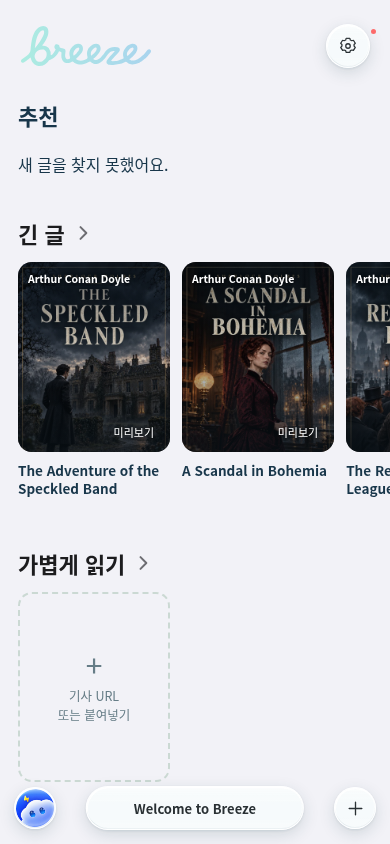
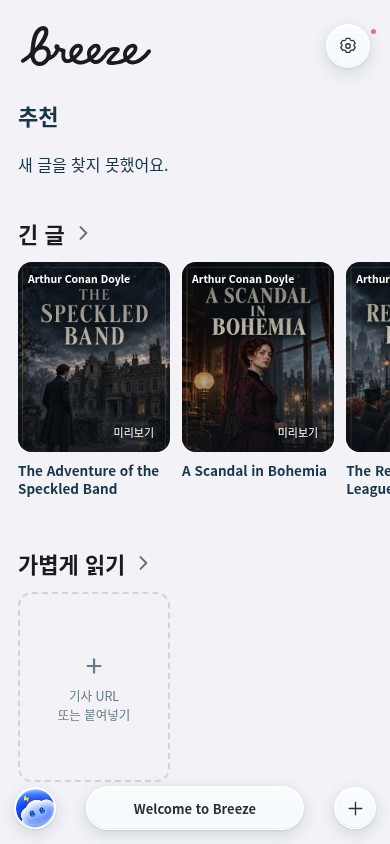
Preview white palettes and use monochrome Home brand; fix detached QA release

Changed region(s): [[0.0615, 0.0308, 0.3692, 0.0924]]

diff --git a/styles/home-shell.css b/styles/home-shell.css
@@ -6,7 +6,7 @@ body:has(:is(#v-home,#v-casuals,#v-longform).on) #topbar{position:relative;trans
 .breeze-wordmark{display:block;width:120px;aspect-ratio:841/258;background:url('../assets/brand/wordmark-light.svg') center/contain no-repeat;}
 body.dark .breeze-wordmark{background-image:url('../assets/brand/wordmark-dark.svg');}
 body:has(:is(#v-home,#v-casuals,#v-longform).on) #logo{gap:10px;}
-body:has(:is(#v-home,#v-casuals,#v-longform).on) #logo .breeze-wordmark{width:132px;}
+body:has(:is(#v-home,#v-casuals,#v-longform).on) #logo .breeze-wordmark{width:132px;background:var(--settings-ink);-webkit-mask:url('../assets/brand/wordmark-mask.svg') center/contain no-repeat;mask:url('../assets/brand/wordmark-mask.svg') center/contain no-repeat;}
 body:has(:is(#v-home,#v-casuals,#v-longform).on) #nav-settings{margin-left:auto;flex:none;width:44px;height:44px;}
 body:has(:is(#v-home,#v-casuals,#v-longform).on) #nav-settings svg{width:18px;height:18px;fill:none;stroke:currentColor;stroke-width:1.7;stroke-linecap:round;stroke-linejoin:round;}
 body:has(:is(#v-home,#v-casuals,#v-longform).on) #nav-settings span{position:absolute;width:1px;height:1px;overflow:hidden;clip-path:inset(50%);white-space:nowrap;}

diff --git a/index.html b/index.html
@@ -60,7 +60,7 @@
   <link rel="stylesheet" href="styles/responsive.css?v=8feb0509">
   <link rel="stylesheet" href="styles/wordbook.css?v=1736245b">
   <link rel="stylesheet" href="styles/home-font.css?v=d817d87e">
-  <link rel="stylesheet" href="styles/home-shell.css?v=b36cbbdb">
+  <link rel="stylesheet" href="styles/home-shell.css?v=5fd466f5">
   <link rel="stylesheet" href="styles/onboarding.css?v=7cd86bec">
 
   <!-- PDF·EPUB 라이브러리(418KB)는 파일을 처음 열 때 받습니다. 기사만 읽는

diff --git a/sw.js b/sw.js
@@ -33,7 +33,7 @@
 /* tools/stamp-version.mjs 가 찍습니다 — 손으로 고치지 마세요.
    값은 "판 번호를 찍은 index.html 의 해시" 입니다. index.html 은 모든 파일의
    해시를 담고 있으니, 이 한 줄이 "무엇이든 바뀌었다" 를 정확히 가리킵니다. */
-const VERSION = 'd808f26f';
+const VERSION = '02a55943';
 const CACHE = `breeze-${VERSION}`;
 
 /* 담을 목록은 index.html 을 읽어서 그때그때 만듭니다. 손으로 적어 두면 파일을

diff --git a/tools/trace-breeze-brand.py b/tools/trace-breeze-brand.py
@@ -62,7 +62,7 @@ def outline(bounds):
 
 def svg(width,height,path,dark=False,icon=False):
     # 07:56 feedback: WHITE uses exactly Dark01 ink, without darkening it.
-    # Letterform remains provisional while the new readable-r is reviewed.
+    # 08:15 feedback confirms the original approved cursive r contour.
     colors=('#acece1','#a9d4ee')
     if icon:
         scale=820/max(width,height); x=(1024-width*scale)/2; y=(1024-height*scale)/2
@@ -77,3 +77,5 @@ if __name__=='__main__':
     monogram=outline((52,1110,315,1340))
     for name,data in [('wordmark-light.svg',svg(*word)),('wordmark-dark.svg',svg(*word,dark=True)),('monogram.svg',svg(*monogram,icon=True))]:
         (ROOT/'assets/brand'/name).write_text(data)
+    width,height,path=word
+    (ROOT/'assets/brand/wordmark-mask.svg').write_text(f'<svg xmlns="http://www.w3.org/2000/svg" viewBox="0 0 {width} {height}"><path d="{path}" fill="black" fill-rule="evenodd"/></svg>\n')

diff --git a/docs/decisions/014-breeze-wordmark.md b/docs/decisions/014-breeze-wordmark.md
@@ -3,9 +3,9 @@
 The user selected Dark01 and authorized a white-mode version, onboarding,
 splash and restrained Home branding, with screenshots before approval. This
 draft is stacked on PR #122 and changes no auth, Reader lookup or release policy.
-The 07:56 feedback requests identical Dark01 ink on WHITE and a more readable,
-less hooked `r`. The current contour is explicitly **provisional** pending the
-design worker's comparison and user review; this draft does not finalize it.
+The user confirmed the original cursive `r` at 08:15. Its contour is retained;
+the plain-r alternative is not implemented. WHITE palette A/B still awaits
+selection after the 08:06 feedback about the pale appearance.
 
 The approved Library board is `libfile_709561bacc108191b6ec01dddc4318f9`
 (version 0, backing `file_000000006c9881f9bf2b7604c4c0cb57`). Actual pixels
@@ -18,8 +18,13 @@ themes share exactly the same outline and aspect ratio. Both use the exact
 Dark01 gradient #acece1 → #a9d4ee; WHITE is not darkened. These are decorative
 brand ink, not general control/selection tokens.
 
-The full wordmark replaces the mascot on welcome and completion, and the Home
-header. The ordinary content word `Breeze` stays selectable Reader text. Its
+The full wordmark replaces the mascot on welcome and completion. Following
+08:08 user feedback, the Home header uses the identical contour as a mask filled
+with the existing neutral `--settings-ink` token (#1C1C1E / #F2F2F7), with no
+gradient. Colored artwork remains on onboarding and splash. The 08:06 feedback
+rejects the pale WHITE effect; two preview-only white palette candidates are
+recorded separately and await user selection. Dark ink is unchanged.
+The ordinary content word `Breeze` stays selectable Reader text. Its
 lesson, actual mini pill, expansion, translation and explanation remain shared.
 Home content and navigation, including the existing Memory illustration, remain
 intact. The `br` mark replaces web/PWA/iOS app icon assets.

diff --git a/docs/qa/white-palette-variants/README.md b/docs/qa/white-palette-variants/README.md
@@ -1,0 +1,30 @@
+# WHITE palette comparison — selection pending
+
+08:15 user decision confirms the original cursive r; all three variants have
+the exact same source contour. Dark onboarding/splash ink is unchanged.
+Home now uses neutral text-token monochrome and is outside this color choice.
+
+| Variant | Gradient stops | Endpoint contrast on #FBFCFC |
+|---|---|---|
+| Current baseline | 0% #acece1, 100% #a9d4ee | 1.29 / 1.53 |
+| A | 0% #75b9bd, 80% / 100% #79aac8 | 2.17 / 2.43 |
+| B | 0% #63acb5, 80% / 100% #699bbc | 2.52 / 2.91 |
+
+A lowers brightness moderately; B is a little stronger and bluer. Both preserve
+the sea-glass family. These are decorative brand marks, not instruction text.
+The Korean copy and controls keep their existing readable neutral ink.
+
+`white-onboarding-comparison.png` places three independently captured production
+onboarding pages at their original 390×844 dimensions, with labels outside the
+screens. The UI is real; only the vector gradient asset is substituted for preview.
+No font, nonuniform scaling or letterform change is used. The iframe experiment
+had a storage initialization error and was excluded; Library board version 1 is
+the corrected independent-capture board, replacing version 0.
+
+The individual colored Home candidate files are historical palette comparisons
+from before the monochrome Home direction, not the current Home. Latest actual
+monochrome screenshots and native IDs are in `../breeze-wordmark/`.
+
+Preview vectors live under `docs/brand/white-palette-variants/`, outside the app
+bundle. No A/B palette is applied to production onboarding or native artwork
+until selection. Native Library references are in `library-images.json`.

diff --git a/docs/qa/breeze-wordmark-draft.md b/docs/qa/breeze-wordmark-draft.md
@@ -1,8 +1,23 @@
 # Breeze Dark01 brand — screenshot draft
 
-**Provisional letterform:** 07:56 user feedback requests a less hooked, readable
-`r`. That geometry awaits the design comparison and user review. Both themes now
-use identical Dark01 ink; the earlier darkened WHITE preview is superseded.
+08:08: Home header is now monochrome using the existing neutral text token,
+with the identical source contour. Ten brand layouts and the new monochrome
+mask assertion pass locally. Onboarding WHITE palette A/B previews await review;
+dark and letterform remain unchanged. Preview metadata is in
+`white-palette-variants/library-images.json`.
+
+The original `26266e8` CI attempt passed onboarding/branding on Chromium and
+WebKit, sentence responsive on both engines and Integrity contract/diagnostic
+jobs. Sentence inline WebKit failed because its synthetic pointerup was sent
+to a detached PDF canvas after repaint. The test now releases on the current
+hit-tested surface when its old target has detached, preserving the assertion
+that the document gesture owner receives release. Reader production code is
+unchanged. Forced synthetic-pointer TXT/PDF/EPUB checks pass locally in Chromium;
+actual WebKit verification awaits the next exact-head CI.
+
+**Letterform approved at 08:15:** keep the original cursive `r`. No plain-r
+alternative is implemented. Current onboarding/splash assets use identical
+Dark01 ink; the WHITE palette A/B comparison still awaits user selection.
 
 Stacked on guided onboarding/auth PR #122 (`04056222`). Base main remains
 `c649047d`. No merge, deployment, release build or App Review submission.
